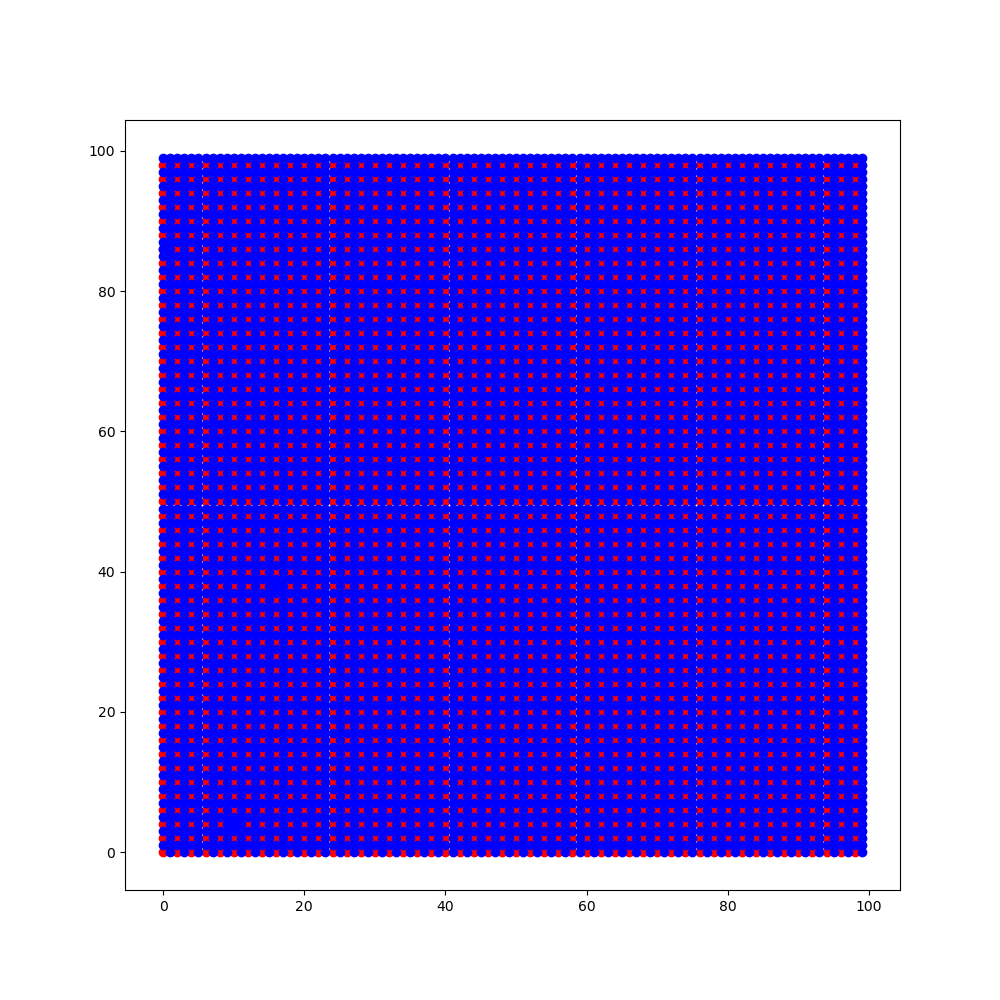
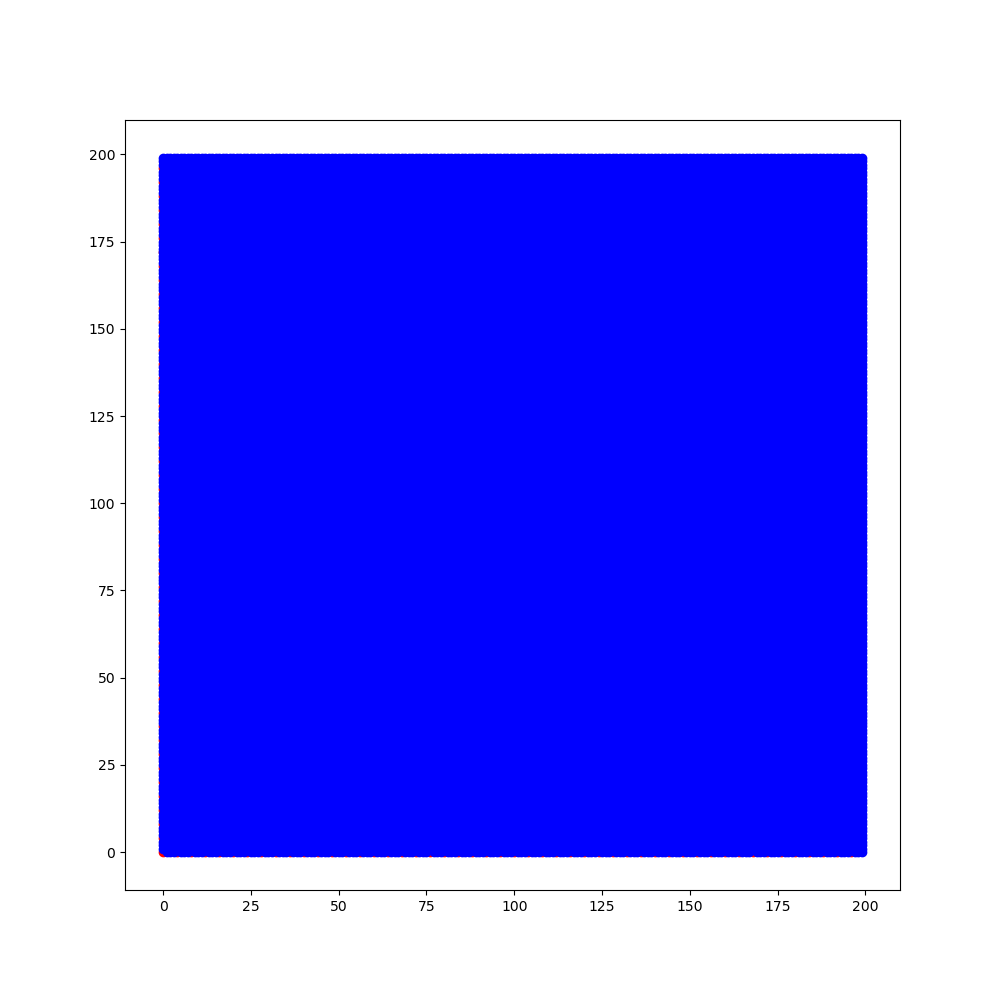
more bug fixes

diff --git a/bilinear_interpolation.py b/bilinear_interpolation.py
@@ -6,6 +6,7 @@ from scipy.spatial import KDTree
 import map_resized_cords
 
 img = cv2.imread("/Users/2020shatgiskessell/Downloads/test_img.png")
+#img = cv2.imread("/Users/2020shatgiskessell/Downloads/300px-Flag_of_Libya_(1977–2011).svg.png")
 img = cv2.resize(img, (50,50))
 
 def match_coordinates_coefs(img, target_size):
@@ -55,7 +56,7 @@ def bilinear_interpolate (img, target_size):
     #         a_new_pixel_cords.append(new_img_cords)
 
     dif_h, dif_w = target_size
-    img, a_new_pixel_cords, a_old_pixel_cords = map_resized_cords.get_uninterpolated_scaled_img(img, dif_h/h)
+    img, a_new_pixel_cords, a_old_pixel_cords = map_resized_cords.get_uninterpolated_scaled_img(img, (dif_h/h, dif_w/w))
     #--------------------------PLOT-------------
     fig=plt.figure(figsize=(10,10))
     plt.scatter([x[0] for x in a_old_pixel_cords], [x[1] for x in a_old_pixel_cords],color="r")
@@ -81,21 +82,34 @@ def bilinear_interpolate (img, target_size):
 
         #get distances to figure out how much of r,g,b should be in q1 and q2
         #SOMETHING WRONG WITH DISTANCES BEING USED
-        q1_d_1 = (np.linalg.norm(q1_cords - closest_pixels[1]))/2
-        q1_d_2 = (np.linalg.norm(q1_cords - closest_pixels[0]))/2
-        q2_d_1 = (np.linalg.norm(q2_cords - closest_pixels[3]))/2
-        q2_d_2 = (np.linalg.norm(q2_cords - closest_pixels[2]))/2
+        q1_d_1 = 0.5
+        # (np.linalg.norm(q1_cords - closest_pixels[1]))/2
+        q1_d_2 = 0.5
+        #(np.linalg.norm(q1_cords - closest_pixels[0]))/2
+        q2_d_1 = 0.5
+        #(np.linalg.norm(q2_cords - closest_pixels[3]))/2
+        q2_d_2 = 0.5
+        #(np.linalg.norm(q2_cords - closest_pixels[2]))/2
+
+        #get distance from q1 and q2 to new point
+        q1_point_d = 0.5
+        #(np.linalg.norm(point - q2_cords))/2
+        q2_point_d = 0.5
+        #(np.linalg.norm(point - q1_cords))/2
+
 
         q1 = [q1_d_1*img[closest_pixels[0][0], closest_pixels[0][1]][0] + q1_d_2*img[closest_pixels[1][0], closest_pixels[1][1]][0], q1_d_1*img[closest_pixels[0][0], closest_pixels[0][1]][1] + q1_d_2*img[closest_pixels[1][0], closest_pixels[1][1]][1], q1_d_1*img[closest_pixels[0][0], closest_pixels[0][1]][2] + q1_d_2*img[closest_pixels[0][0], closest_pixels[1][1]][2]]
         q2 = [q2_d_1*img[closest_pixels[2][0], closest_pixels[2][1]][0] + q2_d_2*img[closest_pixels[3][0], closest_pixels[3][1]][0], q2_d_1*img[closest_pixels[2][0], closest_pixels[2][1]][1] + q2_d_2*img[closest_pixels[3][0], closest_pixels[3][1]][1], q2_d_1*img[closest_pixels[2][0], closest_pixels[2][1]][2] + q2_d_2*img[closest_pixels[3][0], closest_pixels[3][1]][2]]
         #interpolate point
-        #get distance from q1 and q2 to new point
-        q1_point_d = (np.linalg.norm(point - q2_cords))/2
-        q2_point_d = (np.linalg.norm(point - q1_cords))/2
-
         new_point_val = (int(q1_point_d * q1[0] + q2_point_d*q2[0]), int(q1_point_d * q1[1] + q2_point_d*q2[1]), int(q1_point_d * q1[2] + q2_point_d*q2[2]))
         new_points[tuple(point)] = new_point_val
-        if point == [1,3]:
+        if point == [2,1]:
+            print (q1_d_1)
+            print (q1_d_2)
+            print (q2_d_1)
+            print (q2_d_2)
+            print (q1_point_d)
+            print (q2_point_d)
             print (new_point_val)
     #add old pixels to dictionary
     for point in a_old_pixel_cords:
@@ -110,9 +124,8 @@ def bilinear_interpolate (img, target_size):
     for cords in coordinates:
         x,y = cords
         resized_image[x][y] = list(new_points.get(cords))
+
     cv2.imwrite("resized_image.png", resized_image)
     cv2.imwrite("no_int_resized_image.png", img)
-    #cv2.imshow("og_img", og_img)
-    #cv2.waitKey(0)
 
-bilinear_interpolate (img, (100,100))
+bilinear_interpolate (img, (200,200))

diff --git a/map_resized_cords.py b/map_resized_cords.py
@@ -2,6 +2,9 @@ import numpy as np
 import cv2
 
 # img = cv2.imread("/Users/2020shatgiskessell/Downloads/test_img.png")
+# roi = cv2.resize(img,(50,50))
+
+# img = cv2.imread("/Users/2020shatgiskessell/Downloads/test_img.png")
 # roi = img[200:210, 800:810]
 #img[200:600, 800:1200]
 #img[200:210, 800:810]
@@ -16,13 +19,14 @@ def basic_int (matrix):
     return matrix
 
 def get_uninterpolated_scaled_img(roi, scale_factor):
+    h,w = scale_factor
     #isolate each image channel
     b, g, r = cv2.split(roi)
     b = roi[...,0]
     g = roi[...,1]
     r = roi[...,2]
     #create Kronecker product kernel
-    kron_kernel = np.zeros((int(scale_factor), int(scale_factor)))
+    kron_kernel = np.zeros((int(h), int(w)))
     kron_kernel[0][0] = 1
     #calculate Kronecker product for each channel
     zoomed_no_int_b = np.kron(b, kron_kernel)
@@ -37,12 +41,15 @@ def get_uninterpolated_scaled_img(roi, scale_factor):
     old_pixels = np.where(zoomed_no_int_bgr != 0)
 
     #get everything in correct format
+    print ("1")
     unint_pixel_cords = set(zip(unint_pixels[0], unint_pixels[1]))
     unint_pixel_cords = [list(pixel) for pixel in unint_pixel_cords]
     old_pixel_cords = set(zip(old_pixels[0], old_pixels[1]))
     old_pixel_cords = [list(pixel) for pixel in old_pixel_cords]
+    print ("2")
     return zoomed_no_int_bgr, unint_pixel_cords, old_pixel_cords
 
-# zoomed_no_int_bgr, _, _ = get_uninterpolated_scaled_img(roi, 2)
-# # cv2.imshow("roi_zoomed", zoomed_no_int_bgr)
-# # cv2.waitKey(0)
+# zoomed_no_int_bgr, _, _ = get_uninterpolated_scaled_img(roi, (75, 75))
+# cv2.imshow("roi_zoomed", zoomed_no_int_bgr)
+# cv2.imshow("roi", roi)
+# cv2.waitKey(0)
